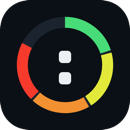
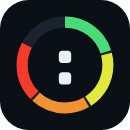
Imagens da loja: ícone maior, splash e fundo do lançador
- Ícone rasterizado em 1024x1024 a partir do SVG, que agora está versionado em
  loja/icone.svg. Antes eu gerava o ícone e descartava o fonte, o que obrigaria
  a redesenhar do zero para mudar uma cor.
- Versão de fundo quadrado cheio, já que a LG pede "Square Type Only", e a
  regra de não usar gradiente na cor de fundo é atendida pelos quatro segmentos
  chapados.
- Splash 1920x1080 com a marca e o nome do app, e fundo de lançador
  atmosférico, com o anel sangrando pelo canto e o lado esquerdo limpo para a
  interface da TV.

Dois erros corrigidos no caminho: um sed de redimensionamento removia
width/height de TODOS os elementos, apagando o retângulo de fundo e deixando o
ícone branco; e as páginas geradas não declaravam charset, então o Chrome lia
como Latin-1 e o splash saía escrito "CRONÃĪMETRO".

diff --git a/loja/README.md b/loja/README.md
@@ -9,7 +9,12 @@ O que está pronto aqui e o que ainda depende de você.
 | `1-rola-comecando.png` … `5-tela-inicial.png` | Capturas em 1280x720, geradas do app real |
 | `icone-400.png` | Ícone 400x400 para a listagem da loja |
 | `ux-scenario.md` | Documento de cenário de UX exigido pela LG, em inglês |
-| `icone-generico-400/130/80.png` | Ícone próprio do app, sem marca de terceiro |
+| `icone.svg` | Fonte vetorial do ícone; rasterize daqui em qualquer tamanho |
+| `icone-quadrado.svg` | Mesma marca, fundo quadrado cheio |
+| `icone-loja-1024.png` | **Ícone da listagem** (1024x1024, quadrado, sem gradiente no fundo) |
+| `icone-generico-400/130/80.png` | Tamanhos menores, usados dentro do pacote |
+| `splash-1920x1080.png` | Tela de abertura |
+| `launcher-1920x1080.png` | Fundo no lançador da TV |
 | `../webos-loja/1280x720/*.ipk` | Pacote para TVs Full HD e HD |
 | `../webos-loja/1920x1080/*.ipk` | Pacote para TVs UHD |
 
@@ -25,11 +30,23 @@ cores no estado inicial.
 | File Version | `1.0.0` (nos dois pacotes) |
 | Resolution | um envio por pacote: `1280x720` e `1920x1080` |
 | Deep Link | não usar |
+| Chipset | `All` — a própria tela manda isso para app Web |
+| Service Platform | webOS 3.0 e acima |
+| App Icon | `icone-loja-1024.png` |
+| Splash / Launcher | `splash-1920x1080.png` e `launcher-1920x1080.png` |
 
 São **dois arquivos**, mesmo app, mesma versão. A LG recomenda os dois porque
 enviar só o de 720p degrada a imagem nos modelos UHD. O mesmo HTML serve aos
 dois: o layout é em `vh/vw` e escala sozinho — o relógio sai com 291 px em 720p
 e 457 px em 1080p, sem transbordar em nenhum dos dois (verificado).
+
+### Regras das imagens que a LG impõe
+
+- **Ícone:** 400x400 ou maior, quadrado, e **sem gradiente na cor de fundo**.
+  O nosso usa fundo sólido `#0B1016` e quatro segmentos de cor chapada — a
+  primeira versão do anel era um gradiente linear e teria esbarrado nessa
+  regra, além de inverter a leitura de verde para vermelho.
+- **Splash e launcher:** 1920x1080, JPG ou PNG até 10 MB.
 
 ## Falta, e só você consegue
 
